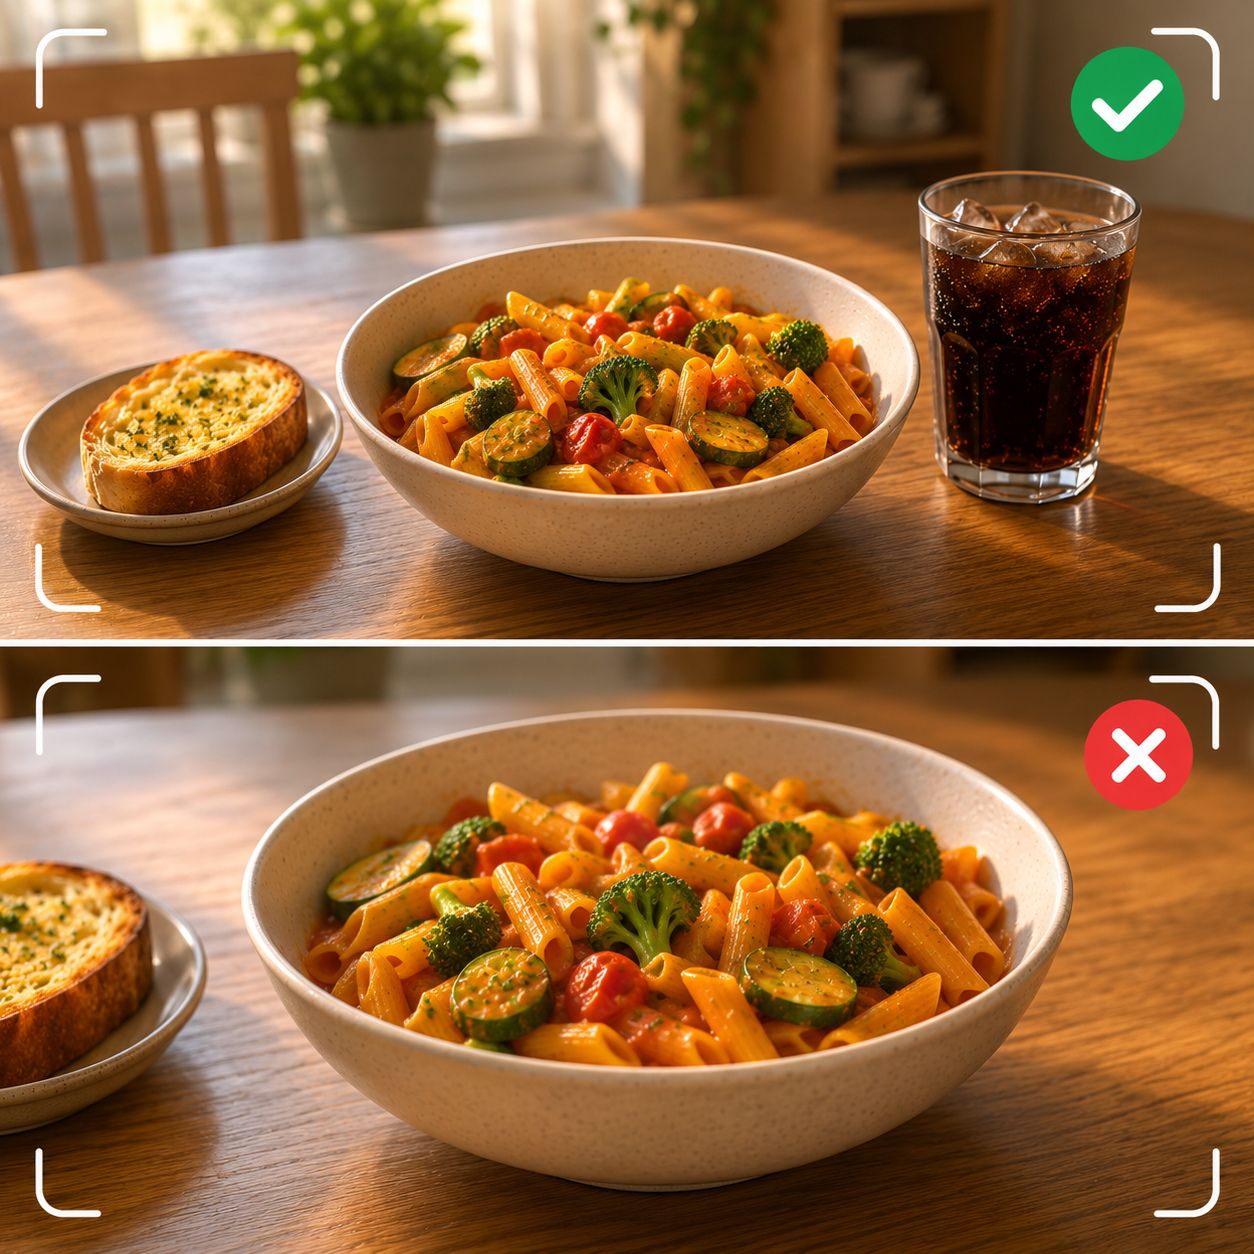
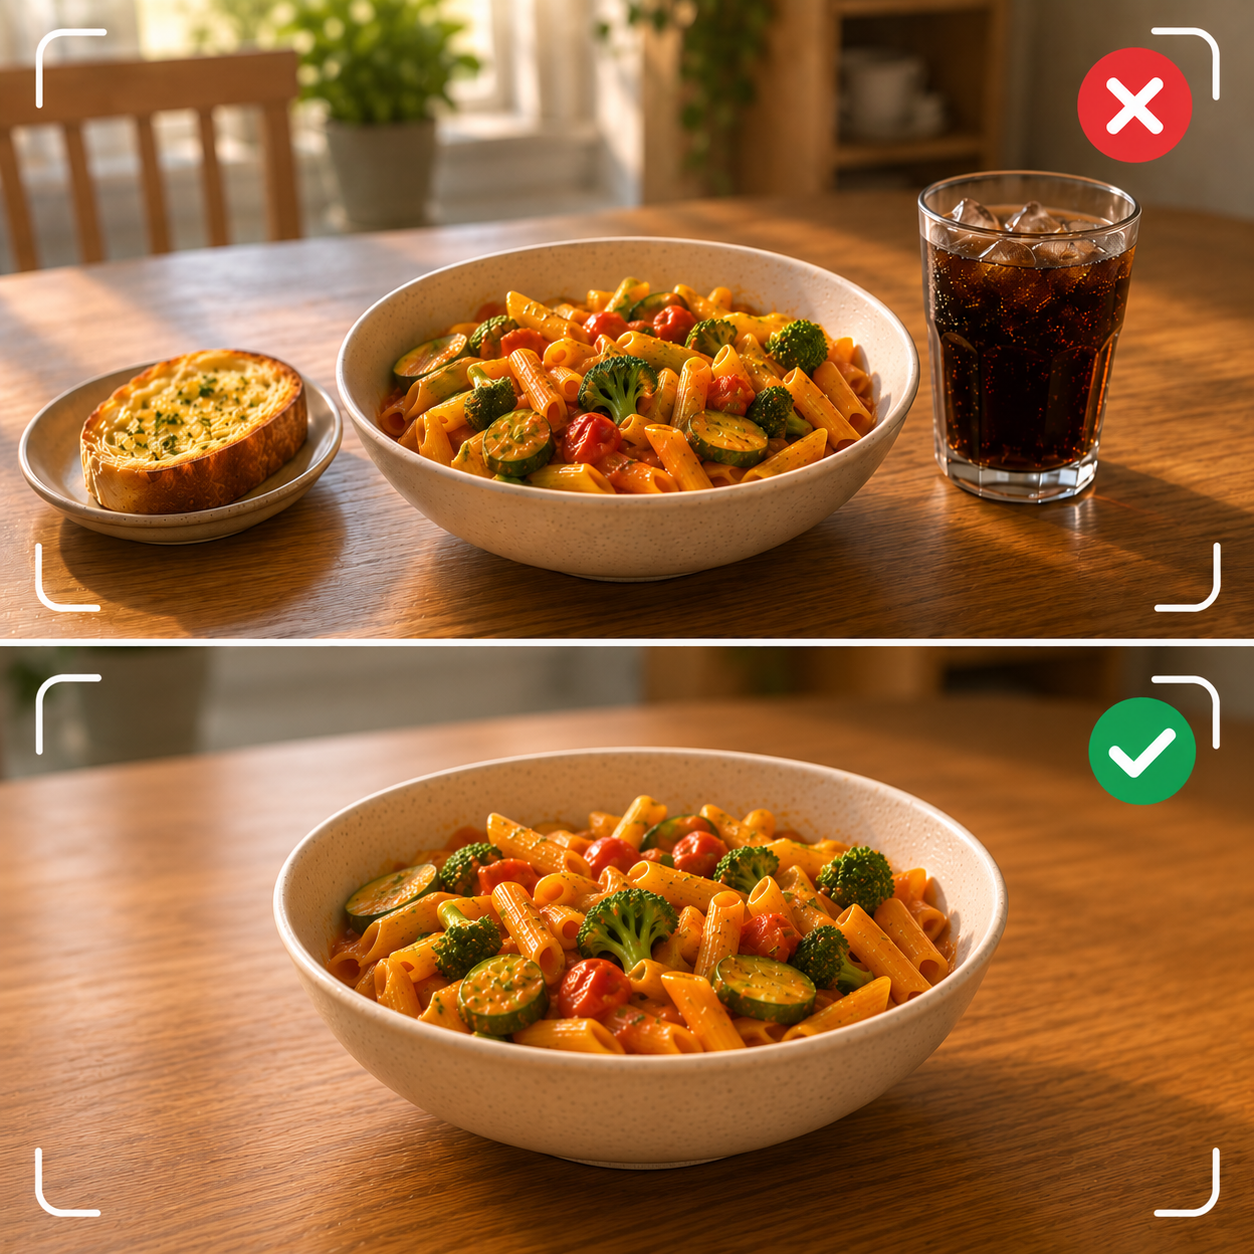
Scan tutorial: 4 slides, updated nt3 for One Meal, contain-fit centered images

diff --git a/app/scan-tutorial.tsx b/app/scan-tutorial.tsx
@@ -1,10 +1,7 @@
 /**
- * First-time scan tutorial. Five slides teaching good scanning habits.
+ * First-time scan tutorial. Four slides teaching good scanning habits.
  * Shown once per user; `has_seen_scan_tutorial` on the profile persists the
  * outcome so signing out and back in on the same device doesn't re-trigger.
- *
- * TODO: replace tutorial-lighting placeholder SVG with a real photo once we
- *       have "well-lit vs dim yellow lighting" comparison shots.
  */
 
 import { useCallback, useRef, useState } from 'react';
@@ -23,7 +20,6 @@ import { router } from 'expo-router';
 import { Ionicons } from '@expo/vector-icons';
 import * as Haptics from 'expo-haptics';
 import Animated, { FadeIn } from 'react-native-reanimated';
-import Svg, { Defs, LinearGradient, Rect, Stop, Text as SvgText } from 'react-native-svg';
 import { ThemedText } from '@/components/ui/ThemedText';
 import { useAuthStore } from '@/stores/auth.store';
 import { useUserStore } from '@/stores/user.store';
@@ -39,8 +35,7 @@ const TEXT_MUTED = '#8a7e74';
 interface TutorialSlide {
   headline: string;
   subtitle: string;
-  image?: number; // require() result
-  placeholder?: 'lighting' | 'single-meal';
+  image: number; // require() result
   accessibilityLabel: string;
 }
 
@@ -60,13 +55,6 @@ const TUTORIAL_SLIDES: TutorialSlide[] = [
       'Two food photos. Top: a pasta bowl framed with the sides visible, marked with a green checkmark. Bottom: the same pasta zoomed in too closely, marked with a red X.',
   },
   {
-    headline: 'Avoid Top-Down Shots',
-    subtitle: 'Side views capture quantity better.',
-    image: require('../assets/scan/nt3.png'),
-    accessibilityLabel:
-      'Two food photos. Top: a bowl shot from a slight angle showing depth, marked with a green checkmark. Bottom: the same bowl shot directly top-down, marked with a red X.',
-  },
-  {
     headline: 'Shoot in Good Light',
     subtitle: 'Natural light gives the truest colors.',
     image: require('../assets/scan/nt4.png'),
@@ -76,9 +64,9 @@ const TUTORIAL_SLIDES: TutorialSlide[] = [
   {
     headline: 'One Meal Per Photo',
     subtitle: 'Take separate shots for each meal or snack.',
-    placeholder: 'single-meal',
+    image: require('../assets/scan/nt3.png'),
     accessibilityLabel:
-      'Illustration showing a single meal on its own plate marked with a green checkmark, and multiple different meals in one photo marked with a red X.',
+      'Two food photos. Top: a single meal on its own plate, marked with a green checkmark. Bottom: multiple different meals grouped in one shot, marked with a red X.',
   },
 ];
 
@@ -203,78 +191,8 @@ function SlideView({ slide, isCurrent }: { slide: TutorialSlide; isCurrent: bool
         accessibilityLabel={slide.accessibilityLabel}
         accessible
       >
-        {slide.image ? (
-          <Image source={slide.image} style={styles.image} resizeMode="cover" />
-        ) : slide.placeholder === 'single-meal' ? (
-          <SingleMealPlaceholder />
-        ) : (
-          <LightingPlaceholder />
-        )}
+        <Image source={slide.image} style={styles.image} resizeMode="contain" />
       </Animated.View>
-    </View>
-  );
-}
-
-/* ─── SVG placeholders (see file-level TODO) ─────────────────── */
-
-function SingleMealPlaceholder() {
-  return (
-    <View style={styles.placeholderBox}>
-      <Svg width="100%" height="100%" viewBox="0 0 300 300" preserveAspectRatio="xMidYMid meet">
-        <Defs>
-          <LinearGradient id="good" x1="0" y1="0" x2="1" y2="1">
-            <Stop offset="0" stopColor="#DCFCE7" />
-            <Stop offset="1" stopColor="#BBF7D0" />
-          </LinearGradient>
-          <LinearGradient id="bad" x1="0" y1="0" x2="1" y2="1">
-            <Stop offset="0" stopColor="#FEE2E2" />
-            <Stop offset="1" stopColor="#FECACA" />
-          </LinearGradient>
-        </Defs>
-        <Rect x="0" y="0" width="300" height="145" rx="18" fill="url(#good)" />
-        <SvgText x="150" y="82" fontSize="52" textAnchor="middle">🍛</SvgText>
-        <SvgText x="150" y="128" fontSize="14" fill="#166534" textAnchor="middle" fontWeight="600">
-          One meal — clean data
-        </SvgText>
-
-        <Rect x="0" y="155" width="300" height="145" rx="18" fill="url(#bad)" />
-        <SvgText x="90" y="230" fontSize="34" textAnchor="middle">🍕</SvgText>
-        <SvgText x="150" y="230" fontSize="34" textAnchor="middle">🍔</SvgText>
-        <SvgText x="210" y="230" fontSize="34" textAnchor="middle">🥗</SvgText>
-        <SvgText x="150" y="278" fontSize="14" fill="#991B1B" textAnchor="middle" fontWeight="600">
-          Multiple meals — confusing
-        </SvgText>
-      </Svg>
-    </View>
-  );
-}
-
-function LightingPlaceholder() {
-  return (
-    <View style={styles.placeholderBox}>
-      <Svg width="100%" height="100%" viewBox="0 0 300 300" preserveAspectRatio="xMidYMid meet">
-        <Defs>
-          <LinearGradient id="bright" x1="0" y1="0" x2="1" y2="1">
-            <Stop offset="0" stopColor="#FEF9C3" />
-            <Stop offset="1" stopColor="#FDE68A" />
-          </LinearGradient>
-          <LinearGradient id="dim" x1="0" y1="0" x2="1" y2="1">
-            <Stop offset="0" stopColor="#78350F" />
-            <Stop offset="1" stopColor="#451A03" />
-          </LinearGradient>
-        </Defs>
-        <Rect x="0" y="0" width="300" height="145" rx="18" fill="url(#bright)" />
-        <SvgText x="150" y="90" fontSize="52" textAnchor="middle">🥗</SvgText>
-        <SvgText x="150" y="128" fontSize="14" fill="#78350F" textAnchor="middle" fontWeight="600">
-          Bright, natural light
-        </SvgText>
-
-        <Rect x="0" y="155" width="300" height="145" rx="18" fill="url(#dim)" />
-        <SvgText x="150" y="245" fontSize="52" textAnchor="middle" opacity="0.4">🥗</SvgText>
-        <SvgText x="150" y="283" fontSize="14" fill="#FCD34D" textAnchor="middle" fontWeight="600">
-          Dim, yellow light
-        </SvgText>
-      </Svg>
     </View>
   );
 }
@@ -353,19 +271,13 @@ const styles = StyleSheet.create({
     alignItems: 'center',
     justifyContent: 'center',
   },
+  // Fill the wrap and let resizeMode="contain" letterbox the actual image so
+  // it's centered and never cropped. The source PNGs are ~1:1 with a stacked
+  // good/bad pair inside.
   image: {
+    flex: 1,
     width: '100%',
-    aspectRatio: 1,
-    maxHeight: 460,
     borderRadius: 20,
-  },
-  placeholderBox: {
-    width: '100%',
-    aspectRatio: 1,
-    maxHeight: 460,
-    borderRadius: 20,
-    overflow: 'hidden',
-    backgroundColor: '#FFFFFF',
   },
 
   bottomBar: {
